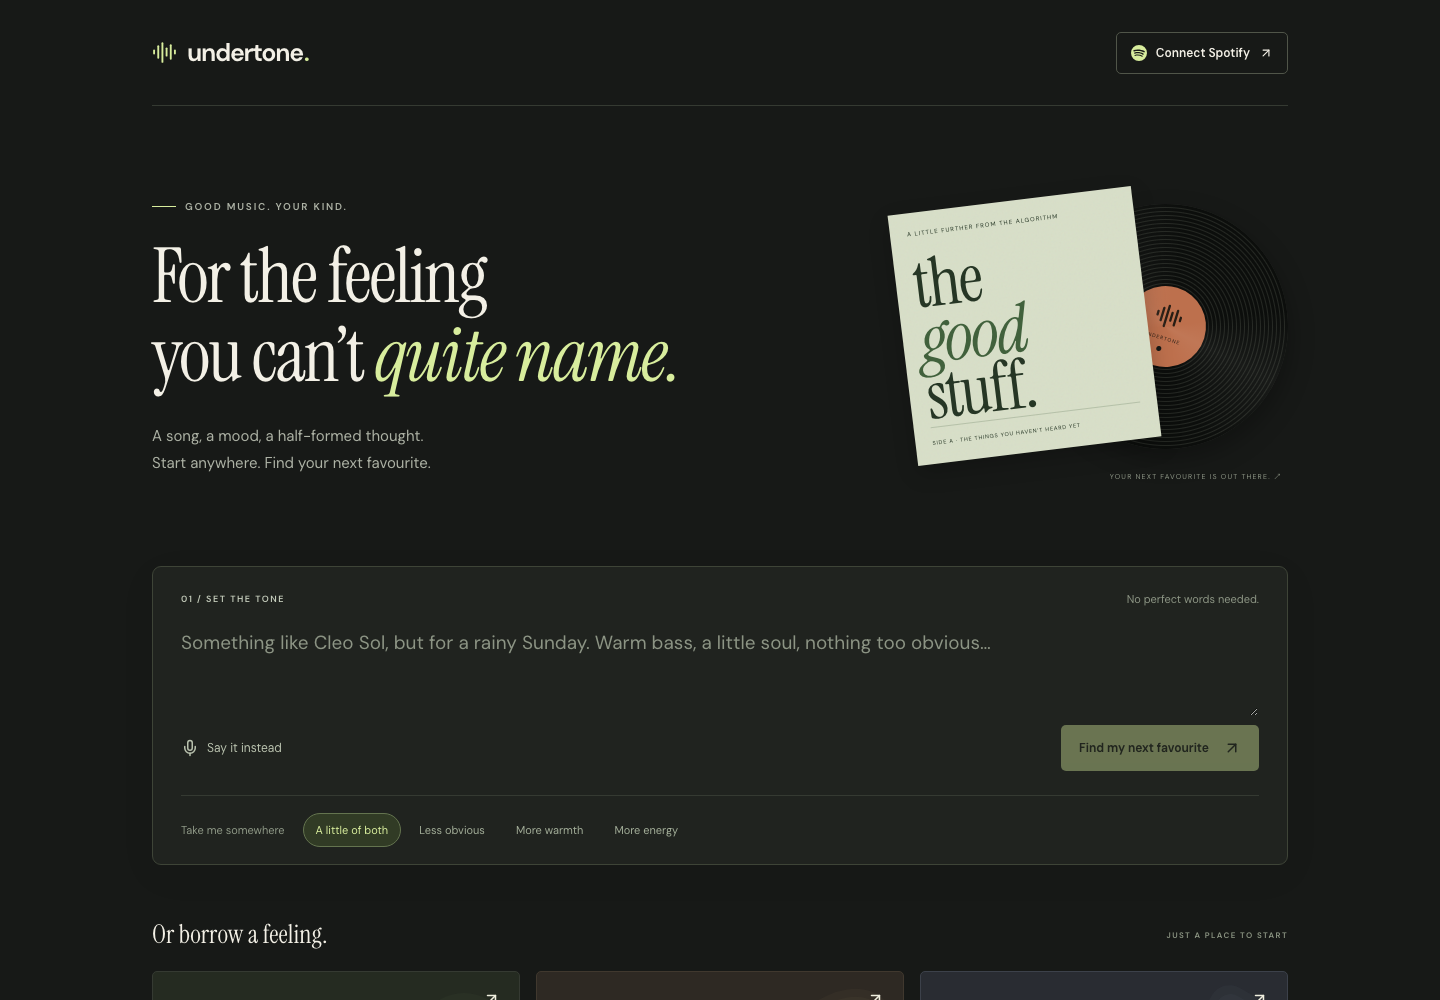
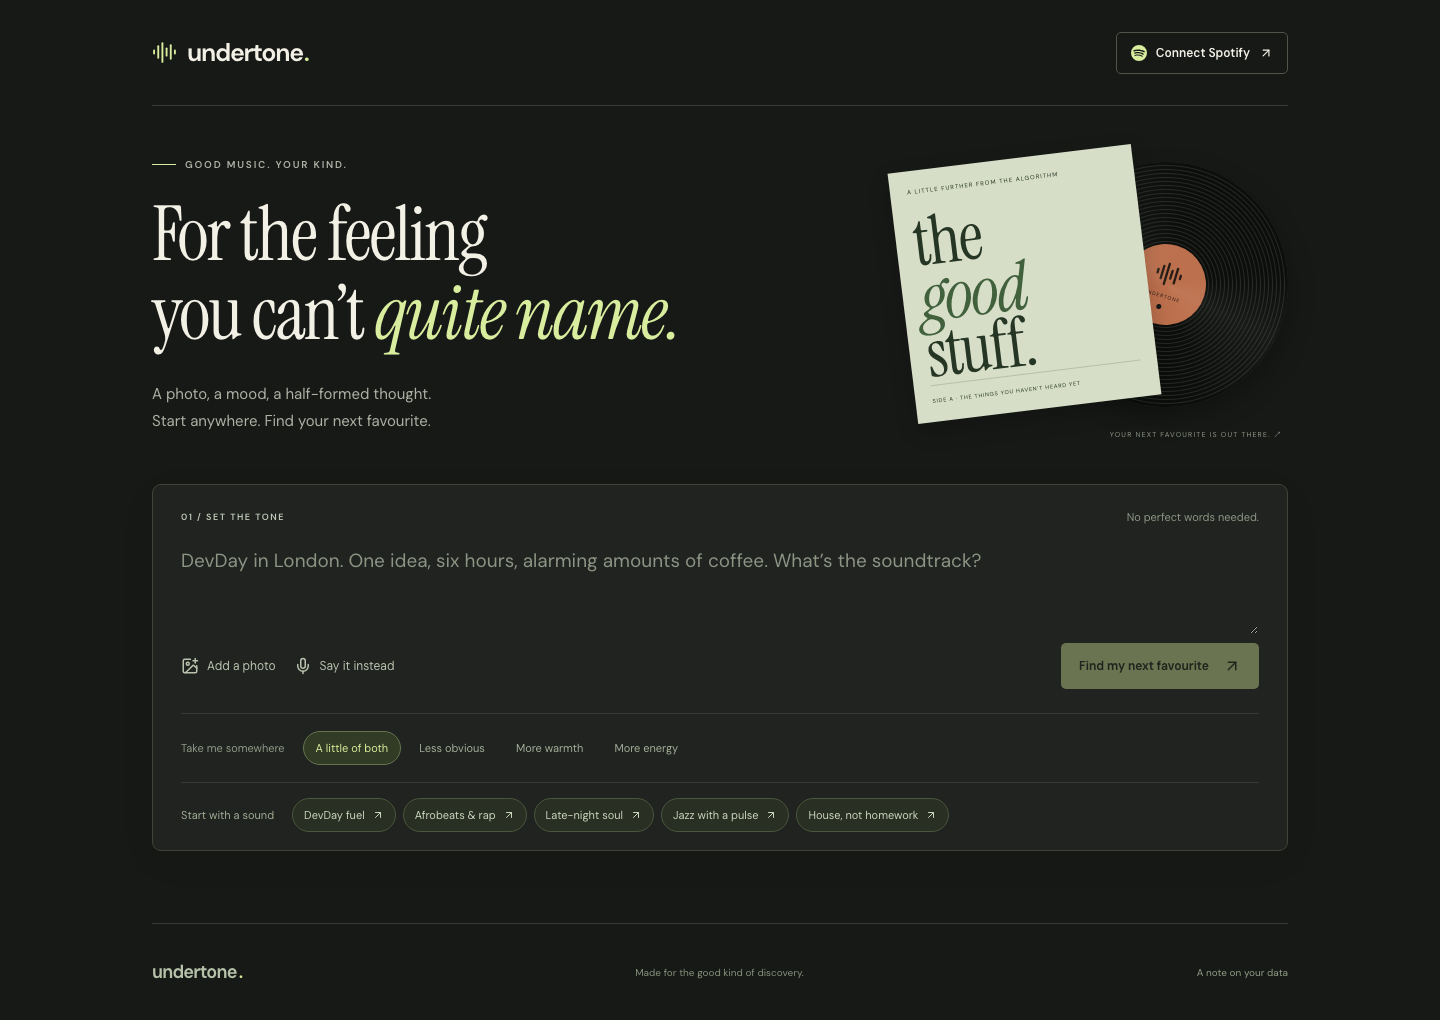
Refresh public multimodal demo and verification notes

diff --git a/BUILD_LOG.md b/BUILD_LOG.md
@@ -62,3 +62,9 @@ Add concrete implementation changes, commands run, observed results and limitati
 - `npm test`: 13 tests passed, including image-only validation, image bounds/signatures and three Spotify matching regressions. TypeScript and production build passed. Browser verification and production deployment results recorded below after completion.
 
 - Browser regression checks passed at 320, 390, 768 and 1440 pixels with reduced motion: no overflow, no page errors, zero automated accessibility violations. Replayed real smoke-test outputs for repeatability; verified photo-only submission, hidden composer on results, per-song replacement without changing neighbours, restore, clean cover request payload, and artwork surviving edit/return. An initial missing/incorrect heading hierarchy was caught by the scan and corrected.
+
+### Production verification of the multimodal pass
+
+- Production deployment `8f77937` reached READY. A real unauthenticated public-browser journey returned six confirmed songs from the synthetic photo, generated and displayed original artwork for just the selected song, played a preview and saved the song. No browser page errors. Vercel reported no grouped runtime errors in the selected ten-minute window.
+- Refreshed the public demo: 47.24 seconds, H.264, 837 KB, silent. Inspected opening, generated-cover and final Codex-contribution frames. Updated the release asset at the existing public demo URL and the README screenshot. Image input and cover output are synthetic/original; no private photos, listening histories or music audio are included.
+- Updated README setup/limits, submission draft, GitHub website link and the Obsidian hackathon brief. Event-form submission/team details remain outstanding.

diff --git a/README.md b/README.md
@@ -2,7 +2,7 @@
 
 **A photo, a mood, a half-formed thought. Find your next favourite.**
 
-**[Try the live app](https://devday-music.vercel.app)** · **[Watch the 45-second demo](https://github.com/tobiadey/devday-music/releases/download/hackathon-demo/undertone-demo.mp4)**
+**[Try the live app](https://devday-music.vercel.app)** · **[Watch the 47-second demo](https://github.com/tobiadey/devday-music/releases/download/hackathon-demo/undertone-demo.mp4)**
 
 No account needed for guest discovery.
 
@@ -94,7 +94,7 @@ Codex checked current documentation, wrote the application, caught an origin-che
 - [x] Local end-to-end guest discovery and preview
 - [x] Public deployment verified without authentication
 - [x] Spotify callback and signed-in listening/player flow confirmed by the founder; one-click embed preview also checked separately
-- [x] Demo video, 45 seconds, public download checked
+- [x] Demo video, 47 seconds, public download checked
 - [ ] Submit project and team details by 17:00 London
 
 Official references: [OpenAI docs](https://developers.openai.com/), [Codex](https://developers.openai.com/codex), [Spotify PKCE](https://developer.spotify.com/documentation/web-api/tutorials/code-pkce-flow), [Spotify 2026 migration](https://developer.spotify.com/documentation/web-api/tutorials/february-2026-migration-guide), [Spotify policy](https://developer.spotify.com/policy), [Apple catalogue API](https://performance-partners.apple.com/search-api).

diff --git a/docs/SUBMISSION.md b/docs/SUBMISSION.md
@@ -12,7 +12,7 @@
 
 - [Live app](https://devday-music.vercel.app)
 - [Public repository and setup](https://github.com/tobiadey/devday-music)
-- [45-second demo video](https://github.com/tobiadey/devday-music/releases/download/hackathon-demo/undertone-demo.mp4)
+- [47-second demo video](https://github.com/tobiadey/devday-music/releases/download/hackathon-demo/undertone-demo.mp4)
 
 ## Concrete Codex contribution
 
